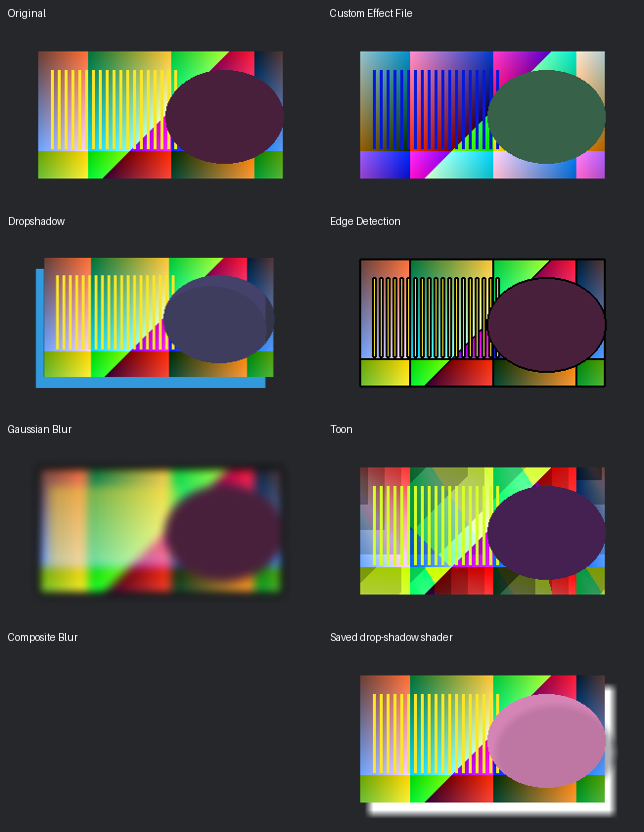
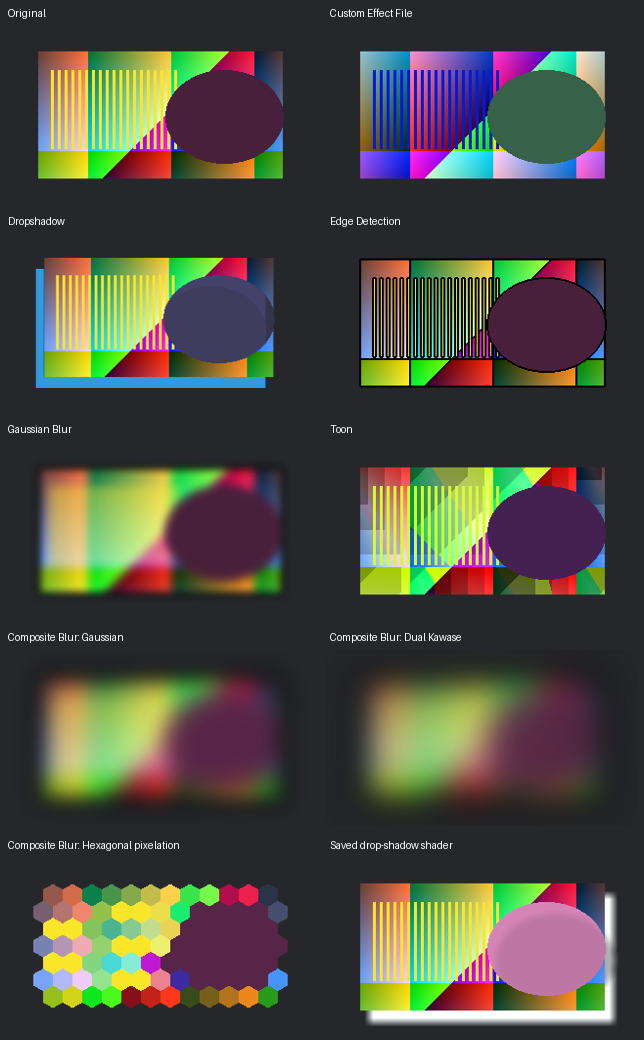
Include the verified blur renders and finish the beta232 release checks

diff --git a/tests/replacement-probe.cpp b/tests/replacement-probe.cpp
@@ -63,7 +63,8 @@ static void check_blur_output(QStringList &issues)
 			const auto pixels = replacement_test::render(source, w, h);
 			if (!replacement_test::retains_artwork(pixels) ||
 			    replacement_test::stripe_contrast(pixels, w) >= 0.85 * contrast)
-				issues.append(QString("%1 did not preserve the image and soften the stripes").arg(mode));
+				issues.append(
+					QString("%1 did not preserve the image and soften the stripes").arg(mode));
 			obs_source_filter_remove(source, filter);
 			obs_source_release(filter);
 		}

diff --git a/docs/obs-filter-replacements.md b/docs/obs-filter-replacements.md
@@ -10,7 +10,7 @@ To add a filter, right-click the source, group or scene in OBS, open **Filters**
 | --- | --- | --- |
 | 3D Effect | Source | **3D Effect** rotates and moves the source in three dimensions. |
 | Advanced Mask | Source | **Advanced Mask** uses a shape, image, source or gradient to mask the input. |
-| Composite Blur | Source | **Composite Blur** keeps the original blur algorithms, masks and saved settings. |
+| Composite Blur | Source | **Composite Blur** starts with Gaussian area blur and supports the original algorithms, masks and saved settings, including Dual Kawase and hexagonal pixelation. |
 | Custom Filter | Source | **Custom Effect File** loads an OBS effect file with a Draw technique. The reload button rereads an edited file. |
 | User-defined shader | Source | **User-defined Shader** accepts ShaderFilter code and its saved uniforms. Its bundled examples include drop shadow, bloom, scan lines, VCR and VHS. |
 | DWM.Name | Source | **Directory Watch Media** watches a folder and updates an image or media source from files in that folder. |
@@ -39,9 +39,9 @@ To add a filter, right-click the source, group or scene in OBS, open **Filters**
 
 OBS supplies **Apply LUT, Chroma Key, Color Correction, Color Key, Compose SDR on HDR (Override), Crop/Pad, HDR Tone Mapping (Override), Image Mask/Blend, Luma Key, Render Delay, Scaling/Aspect Ratio, Scroll** and **Sharpen**. Existing instances continue using OBS's own implementation. [OBS Filters Guide](https://obsproject.com/kb/Filters-Guide)
 
-**Original input and seven filters rendered by OBS**
+**Original input and seven filters rendered by OBS, including three Composite Blur settings**
 
-![OBS render showing the same test image with seven replacement filters](images/filter-replacements.png)
+![OBS render showing the same test image with seven replacement filters, including Gaussian, Dual Kawase and hexagonal pixelation](images/filter-replacements.png)
 
 ## Tools and Stream Deck
 

diff --git a/DEVELOPMENT_HANDOFF.md b/DEVELOPMENT_HANDOFF.md
@@ -29,7 +29,7 @@ The compatibility catalog, source origins, and the collection copy workflow are 
 
 The Linux OpenGL fixture exercises rendered output and a second process opens the catalog in an actual OBS frontend. The offline converter was checked on eight saved collections without writing them. It preserves and reports Advanced Scene Switcher macros and historical StreamFX types. Native Windows Direct3D 11 comparisons against the original scripts matched Edge Detection, Toon and both tested shadow offsets exactly. The tested Gaussian render differed by at most one level in a colour channel.
 
-The catalog checks the components and filter versions registered in the running OBS process. If the exact version needed for an imported entry is unavailable, the converted copy preserves the original entry and reports it for review. A missing NDI runtime is reported in the catalog and OBS log. The synthetic OBS render in the guide covers seven effects. The Stream Deck companion is version 0.36.
+The catalog checks the components and filter versions registered in the running OBS process. If the exact version needed for an imported entry is unavailable, the converted copy preserves the original entry and reports it for review. A missing NDI runtime is reported in the catalog and OBS log. New Composite Blur filters select Gaussian and Area when those settings are absent. The synthetic OBS render in the guide covers seven effects and illustrates Gaussian, Dual Kawase and hexagonal pixelation. The native tests require colored artwork to remain visible and the fine stripes to soften before comparing to the upstream filters. The Windows portable OBS fixture exercises the same modes. The Stream Deck companion is version 0.36.
 
 ## Scene controls and collection compatibility (0.1.0-beta231)
 

diff --git a/docs/releases/0.1.0-beta232.md b/docs/releases/0.1.0-beta232.md
@@ -10,6 +10,10 @@ Add source and scene filter replacements, find their equivalents in OBS, and con
 - **Convert a collection copy.** The converter preserves source names, filter order, settings and chained Move references. It relinks matching bundled shaders and lists entries that need their original plugin.
 - **Control OBS from Stream Deck.** Companion version 0.36 adds keys for source visibility, filter state, mixer mute, Studio Mode, virtual camera, moving a source in a scene and swapping two sources.
 
+## Fixed
+
+- **Start Composite Blur with a visible image.** A new filter starts with Gaussian area blur, including when it is created from a control outside the Filters window.
+
 ## Good to know
 
 - **Try your exported collection first.** Choose Save a converted collection copy, then use Scene Collection > Import in OBS to open the new file.
